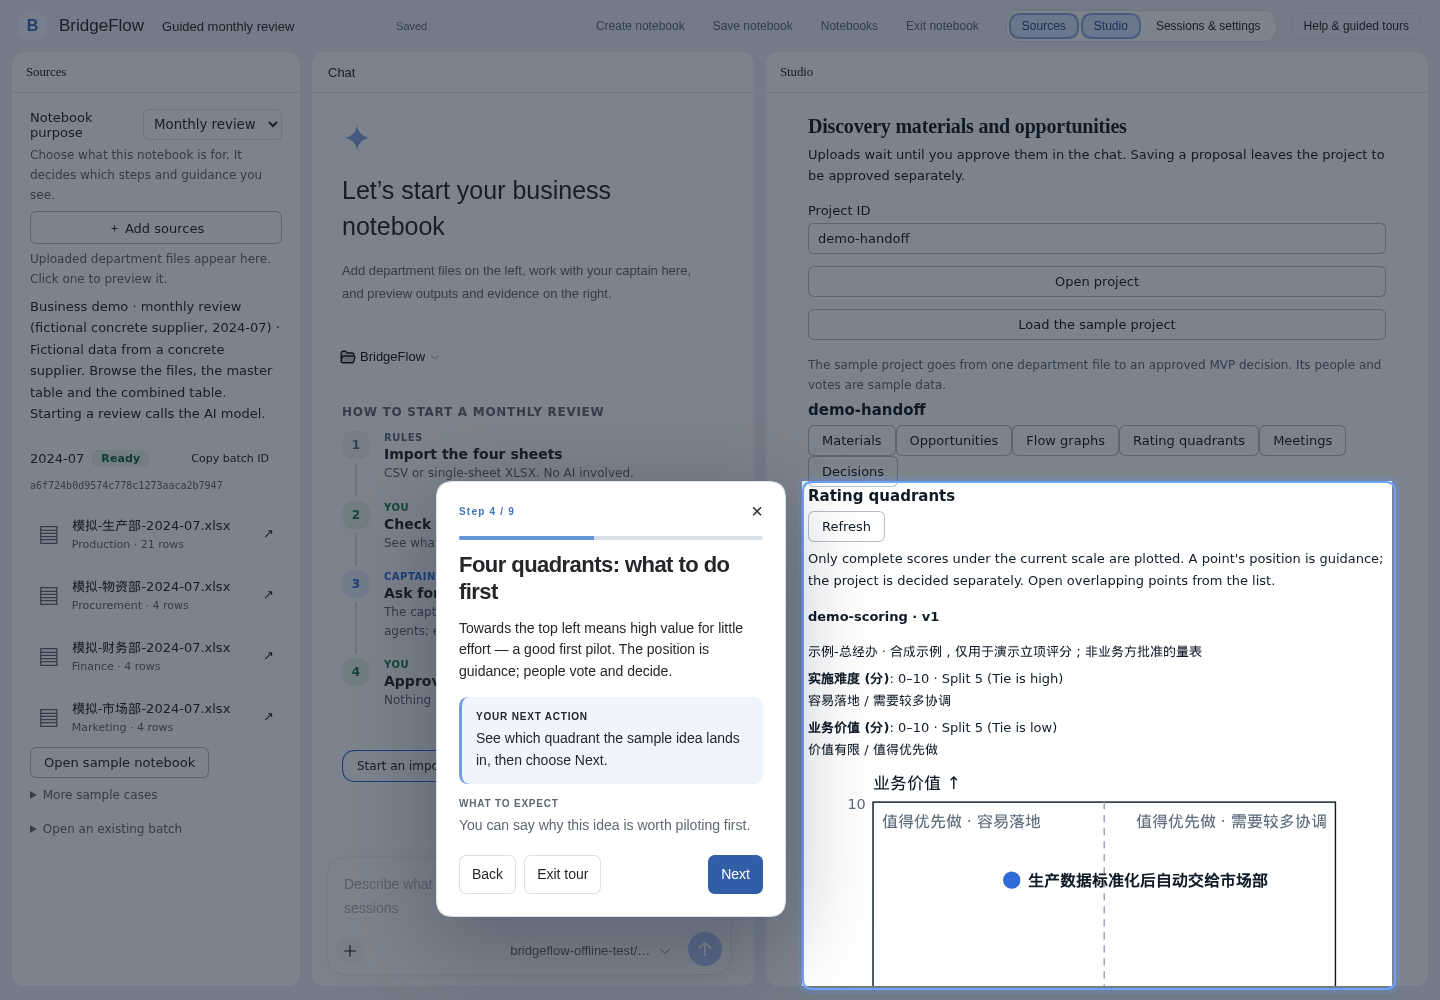
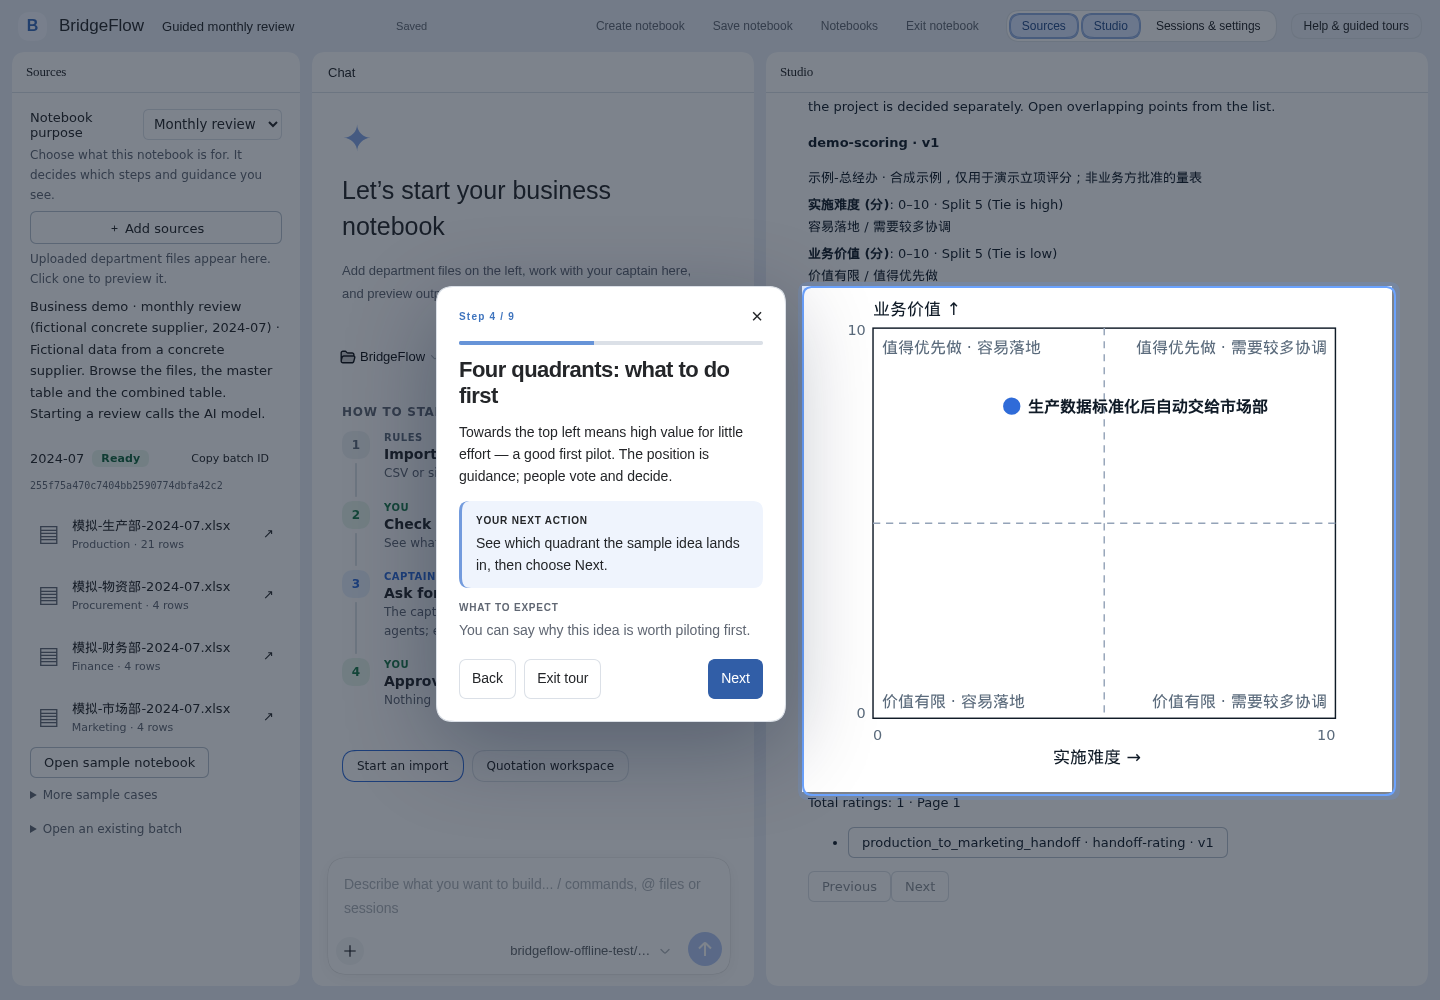
Fix scoring chart names and guided tour framing

Changed region(s): [[0.2812, 0.093, 0.9688, 0.992], [0.8125, 0.682, 0.9375, 0.744], [0.0938, 0.465, 0.125, 0.496]]

diff --git a/plugins/src/client/discovery-scoring.tsx b/plugins/src/client/discovery-scoring.tsx
@@ -6,7 +6,7 @@ type Axis = { title: string; unit: string; minimum: string; maximum: string; spl
 type Policy = { id: string; version: number; fingerprint: string; declared_by: string; declaration_ref: string; effort: Axis; value: Axis }
 type Rating = { score?: string | null; rationale: string; references: Ref[] }
 type Coordinates = { effort: { score: string; normalized: string; side: string }; value: { score: string; normalized: string; side: string } }
-export type Score = { id: string; project_id: string; opportunity_id: string; opportunity_version: number; seq: number; version: number; policy_fingerprint: string; effort: Rating | null; value: Rating | null; actor?: string; coordinates: Coordinates | null; not_plotted_reasons: string[] }
+export type Score = { id: string; project_id: string; opportunity_id: string; opportunity_title?: string; opportunity_version: number; seq: number; version: number; policy_fingerprint: string; effort: Rating | null; value: Rating | null; actor?: string; coordinates: Coordinates | null; not_plotted_reasons: string[] }
 const reasons: Record<string, [string, string]> = {
   candidate_or_evidence_revised: ['候选或依据已修订', 'Candidate or evidence revised'],
   policy_revised: ['量表已改变', 'Policy changed'],
@@ -64,15 +64,7 @@ export function ScoreBoard({ project, onEdit }: { project: string; onEdit: (scor
   const { language, t } = useUI(), zh = language === 'zh'
   const [page, setPage] = useState<{ items: Score[]; total: number; has_more: boolean } | null>(null), [policy, setPolicy] = useState<Policy | null>(null)
   const [offset, setOffset] = useState(0), [revision, setRevision] = useState(0), [error, setError] = useState(''), [selected, setSelected] = useState<Score | null>(null)
-  // Points are labelled with the candidate's title; the id stays in the list and the evidence.
-  const [titles, setTitles] = useState<Record<string, string>>({})
-  useEffect(() => {
-    const abort = new AbortController()
-    void api<{ items: { id: string; title?: string }[] }>(`/discovery/${project}/opportunity?offset=0&limit=50`, { signal: abort.signal })
-      .then(list => setTitles(Object.fromEntries(list.items.map(item => [item.id, item.title || item.id])))).catch(() => setTitles({}))
-    return () => abort.abort()
-  }, [project, revision])
-  const titled = (id: string) => { const name = titles[id] || id; return name.length > 18 ? `${name.slice(0, 17)}…` : name }
+  const titled = (score: Score) => { const name = score.opportunity_title || score.opportunity_id; return name.length > 18 ? `${name.slice(0, 17)}…` : name }
   useEffect(() => {
     const abort = new AbortController(); setPage(null); setPolicy(null); setSelected(null); setError('')
     void Promise.all([api<Policy>(`/discovery/${project}/scoring-policy`, { signal: abort.signal }), api<{ items: Score[]; total: number; has_more: boolean }>(`/discovery/${project}/score?offset=${offset}&limit=50`, { signal: abort.signal })]).then(([p, list]) => { setPolicy(p); setPage(list) }).catch(e => { if (!abort.signal.aborted) setError(describeError(e, t)) })
@@ -83,10 +75,10 @@ export function ScoreBoard({ project, onEdit }: { project: string; onEdit: (scor
     catch (e) { setError(describeError(e, t)) }
   }
   const split = (axis: Axis) => (Number(axis.split) - Number(axis.minimum)) / (Number(axis.maximum) - Number(axis.minimum))
-  return <section data-tour-id="quadrant-chart" aria-label={zh ? '评分四象限' : 'Rating quadrants'}><h3>{zh ? '评分四象限' : 'Rating quadrants'}</h3><button onClick={() => setRevision(n => n + 1)}>{t('refresh')}</button>
+  return <section aria-label={zh ? '评分四象限' : 'Rating quadrants'}><h3>{zh ? '评分四象限' : 'Rating quadrants'}</h3><button onClick={() => setRevision(n => n + 1)}>{t('refresh')}</button>
     <p>{zh ? '只画出当前量表下依据齐全的评分；点的位置只是参考，立项要另行决定。重叠的点可以从列表里分别打开。' : 'Only complete scores under the current scale are plotted. A point\'s position is guidance; the project is decided separately. Open overlapping points from the list.'}</p>
     {error && <p role="alert">{error}</p>}{policy && page && <><PolicyView policy={policy} />
-      <svg role="img" aria-label={zh ? '投入与价值四象限' : 'Effort and value quadrants'} viewBox="0 0 400 340" style={{ width: '100%' }}>
+      <div data-tour-id="quadrant-chart"><svg role="img" aria-label={zh ? '投入与价值四象限' : 'Effort and value quadrants'} viewBox="0 0 400 340" style={{ width: '100%' }}>
         <rect x="45" y="25" width="320" height="270" fill="none" stroke="currentColor" />
         <path d={`M ${45 + split(policy.effort) * 320} 25 V 295 M 45 ${295 - split(policy.value) * 270} H 365`} stroke="#94a3b8" strokeDasharray="5 4" />
         <text x="200" y="326" textAnchor="middle" fontSize="12" fill="currentColor">{policy.effort.title} →</text><text x="45" y="16" fontSize="12" fill="currentColor">{policy.value.title} ↑</text>
@@ -97,8 +89,12 @@ export function ScoreBoard({ project, onEdit }: { project: string; onEdit: (scor
         <text x="45" y="310" fontSize="10" className="bf-quadrant-label">{policy.effort.minimum}</text><text x="365" y="310" textAnchor="end" fontSize="10" className="bf-quadrant-label">{policy.effort.maximum}</text>
         <text x="40" y="295" textAnchor="end" fontSize="10" className="bf-quadrant-label">{policy.value.minimum}</text><text x="40" y="30" textAnchor="end" fontSize="10" className="bf-quadrant-label">{policy.value.maximum}</text>
         {page.items.filter(s => s.coordinates && s.policy_fingerprint === policy.fingerprint).map(s => <circle key={s.id} role="button" tabIndex={0} aria-label={`${s.opportunity_id} · ${s.id}`} cx={45 + Number(s.coordinates!.effort.normalized) * 320} cy={295 - Number(s.coordinates!.value.normalized) * 270} r="7" className="bf-quadrant-dot" onClick={() => void select(s)} onKeyDown={e => { if (e.key === 'Enter' || e.key === ' ') { e.preventDefault(); void select(s) } }}><title>{s.id}: {s.coordinates!.effort.score}, {s.coordinates!.value.score}</title></circle>)}
-        {page.items.filter(s => s.coordinates && s.policy_fingerprint === policy.fingerprint).map(s => <text key={`l${s.id}`} x={45 + Number(s.coordinates!.effort.normalized) * 320 + 11} y={295 - Number(s.coordinates!.value.normalized) * 270 + 4} fontSize="11" className="bf-quadrant-name">{titled(s.opportunity_id)}</text>)}
-      </svg>
+        {page.items.filter(s => s.coordinates && s.policy_fingerprint === policy.fingerprint).map(s => {
+          const x = 45 + Number(s.coordinates!.effort.normalized) * 320
+          const right = Number(s.coordinates!.effort.normalized) > .5
+          return <text key={`l${s.id}`} x={x + (right ? -11 : 11)} y={295 - Number(s.coordinates!.value.normalized) * 270 + 4} textAnchor={right ? 'end' : 'start'} fontSize="11" className="bf-quadrant-name">{titled(s)}</text>
+        })}
+      </svg></div>
       <p>{zh ? '评分总数' : 'Total ratings'}: {page.total} · {zh ? '当前页' : 'Page'} {Math.floor(offset / 50) + 1}</p>
       <ul>{page.items.map(s => <li key={s.id}><button onClick={() => void select(s)}>{s.opportunity_id} · {s.id} · v{s.version}</button>{(!s.coordinates || s.policy_fingerprint !== policy.fingerprint) && <span> {zh ? '未落点：' : 'Not plotted: '}{s.policy_fingerprint !== policy.fingerprint ? (zh ? '量表已改变' : 'Policy changed') : s.not_plotted_reasons.map(reason => reasons[reason]?.[zh ? 0 : 1] ?? reason).join('; ')}</span>}</li>)}</ul>
       <button disabled={!offset} onClick={() => setOffset(n => Math.max(0, n - 50))}>{zh ? '上一页' : 'Previous'}</button><button disabled={!page.has_more} onClick={() => setOffset(n => n + 50)}>{zh ? '下一页' : 'Next'}</button>

diff --git a/backend/src/bridgeflow/api/discovery.py b/backend/src/bridgeflow/api/discovery.py
@@ -130,6 +130,10 @@ def inventory(project: str, kind: Kind, user: BrowserUser,
         if offset <= total < offset + limit:
             if kind == "score":
                 record = DiscoveryScores(domain, scoring_policy(project, user)).read(project, identifier)
+                # The chart needs the linked candidate's name on every score page.
+                # Looking up only the first candidate page leaves later ratings as opaque IDs.
+                record["opportunity_title"] = domain.read(
+                    "opportunity", project, record["opportunity_id"])["title"]
             elif kind == "decision":
                 record = DiscoveryDecisions(domain, decision_policy(project, user)).read(project, identifier)
             elif kind == "meeting":
@@ -137,7 +141,7 @@ def inventory(project: str, kind: Kind, user: BrowserUser,
             # Claims belong in an explicit detail view, not an unbounded list.
             items.append({key: record[key] for key in (
                 "id", "project_id", "version", "created_at", "department", "departments",
-                "title", "filename", "parser_status", "detected_kind", "status", "opportunity_id",
+                "title", "filename", "parser_status", "detected_kind", "status", "opportunity_id", "opportunity_title",
                 "coordinates", "not_plotted_reasons", "policy_fingerprint", "phase", "stale_candidates", "stale_sources", "proposal_version",
                 "recorded_status", "stale_reasons", "tally", "pending_conditions") if key in record})
         total += 1

diff --git a/backend/tests/test_discovery_scoring_api.py b/backend/tests/test_discovery_scoring_api.py
@@ -45,6 +45,22 @@ def test_scoring_policy_and_reads_require_a_login(client, monkeypatch, tmp_path)
     assert client.get("/discovery/project/score/rating", headers=auth(make_token(sub="ou_bob"))).status_code == 200
     listed = client.get("/discovery/project/score", headers=auth(make_token())).json()
     assert listed["items"][0]["coordinates"] == saved.json()["coordinates"]
+    assert listed["items"][0]["opportunity_title"] == opportunity().title
+
+
+def test_score_list_names_candidate_beyond_first_opportunity_page(client, monkeypatch, tmp_path):
+    prepare(monkeypatch, tmp_path)
+    domain = service()
+    for index in range(49):
+        domain.propose(opportunity(id=f"other-{index:02d}"), "employee")
+    domain.propose(opportunity(id="later", title="A later proposal"), "employee")
+    payload = json.dumps({"score": score(id="later-rating", opportunity_id="later").model_dump(mode="json")}).encode()
+    token = permit(client, payload, "discovery_score_save", "ou_alice").json()["permit"]
+    assert write(client, payload, token).status_code == 200
+    headers = auth(make_token())
+    assert client.get("/discovery/project/opportunity?offset=0&limit=50", headers=headers).json()["has_more"]
+    listed = client.get("/discovery/project/score?offset=0&limit=50", headers=headers).json()
+    assert listed["items"][0]["opportunity_title"] == "A later proposal"
 
 
 def test_policy_changes_between_authorization_and_execution_refuse_write(client, monkeypatch, tmp_path):

diff --git a/docs/00-status.md b/docs/00-status.md
@@ -13,7 +13,7 @@
 
 ## 当前评审 rubric 自评（2026-09-24）
 
-按主办方七项、每项 5 分估算，**31.5 / 35**。这是项目方自评，不是评委分数或企业验收；以已合入的代码及下列留存证据为准。工作区内尚未提交的身份、读取范围和审批界面改动不计入本次评分。
+按主办方七项、每项 5 分估算，**31.5 / 35**。这是已合入能力的技术 rubric 自评，不是评委分数、交付准备度或企业验收。27 日能否交付要看下面单列的演示闸门；功能在仓库中存在，不等于现场可用。
 
 | # | 项 | 自评（/5） | 已验证的依据 | 尚未证明的部分 |
 | --- | --- | ---: | --- | --- |
@@ -26,6 +26,17 @@
 | 7 | Platform & Tooling Usage | 4.5 | 官方 Web、原生工具/审批/会话与子代理在真实模型旅程中使用；[架构边界](13-golden-standard.md#六-rubric-符合性)明确 | 框架升级契约与企业部署验收未完成 |
 
 这次比 [09-20 自评](../HANDOFF.md#历史评审-rubric-自评2026-09-20)更有把握的部分是第 2、3、6 项：多步真实模型链路、全量工具选择评测及真实运行轨迹已经留证。第 3 项不因 18/18 直接给满分，第 6 项也不把脚本化回归当成模型质量证明。
+
+## 27 日交付前的演示闸门（2026-09-24，`main@12b790c` 加本地打磨）
+
+**当前仍是待验收，不把上面的技术自评当成交付分数。** 新功能和新需求先暂停，只处理演示主路径的故障、错误表述及其回归。
+
+| 闸门 | 当前证据与结论 |
+| --- | --- |
+| 本地离线主路径 | 在私有 dsh 上复跑员工身份的材料→候选→图→评分→会议→决策浏览器旅程、工作流、月结、四部门研判、报价、三套样例、冷重启、笔记本恢复、部门故障和 README 截图旅程，均通过。员工旅程最初被过期的浏览器测试夹具挡住：它仍写旧的 `users` ACL，且按旧界面查找折叠内容和流程节点；修复测试夹具后通过。评分图第 51 个候选标题的 API 回归与引导四象限完整可见性检查已补上并通过。复现：`BRIDGEFLOW_TEST_DISCOVERY=1 BRIDGEFLOW_TEST_EMPLOYEE=1 BRIDGEFLOW_LIVE=0 pnpm --dir plugins smoke:web`，以及 [交接文档中的其余命令](../HANDOFF.md)。测试模型是脚本化的，不能代替现场真实模型验收。 |
+| 负责人本机演示 | [交接记录](../HANDOFF.md)指出 3082 实例仍在运行旧代码；重启前还须核对模型配置。尚无重启后的手工走查记录。 |
+| 公网访客入口 | 独立访客实例代码已合入；[服务器装配步骤](22-lightsail-deploy.md)中的 DNS、环境变量、服务与重置定时器仍待执行和验收。 |
+| 真实业务输入 | 客户导出、业务口径及企业签核仍未到；[外部输入清单](27-external-inputs.md)未收齐。20 万行样例在现有上传/解压上限下导不进，实测见本文下方的 #228 记录。交付演示应使用已验证的合成样例并如实标明边界。 |
 
 ## 引导补流程线路、样例覆盖与私有 dsh（2026-09-24，分支 `feat/tour-workflow`）
 

diff --git a/HANDOFF.md b/HANDOFF.md
@@ -2,6 +2,14 @@
 
 更新：2026-09-24（引导与 #143 见首节，其后是试用反馈修复、其后是访客模式、其后是工具选择与示例历史月份、其后是工作流补全、issue 收尾；其下依次为 09-23 收尾一轮、界面说清楚一轮、夜间一轮）；此前 2026-09-21。**当前阶段是「全 Web 化 → Lark 接入」，顺序不可颠倒，见下面同名小节。** 该小节之外的内容属于此前已暂停的 14x 需求交付阶段，仍然有效但不是当前工作面；不要因那些旧实施计划或自动续跑继续增加功能。任何「已完成」都不代表企业验收。
 
+**27 日前收口**：以 [当前演示闸门](docs/00-status.md)为准。暂停新增功能和未经业务原件支持的需求；只修现有演示链路的阻断、错误表述与回归。#261 继续放在交付后；#228 先保留已测上限与样例边界，#247 不因口头要求直接合入。
+
+## 2026-09-24 交付前逐项打磨：评分图与引导
+
+- **功能缺陷**：评分图原先只读取候选列表的前 50 条来找名称。第 51 条及之后的候选即使有评分，图上也会退回内部标识。评分列表现在直接返回对应候选标题，换页也保留名称；新增第 51 条候选的 API 回归。
+- **UX**：引导的四象限步骤原先高亮整块评分区，图的下半部在 1440×1000 视口里被截断。现在引导只聚焦图本身，自动滚动后四个象限和示例点都完整可见；右半边的点名也改向左展开，避免被图边裁掉。浏览器旅程增加完整可见性与标题断言，[新截图](docs/evidence/onboarding/workflow-quadrant.png)可直接检查。
+- **验证**：新引导线路、评分 API、TypeScript 类型检查、Python lint 已通过。私有 dsh 下先前待复跑的离线旅程、部门故障变体及 README 截图也已复跑通过；员工立项浏览器旅程的旧 ACL／折叠详情／流程节点测试夹具已更新并通过。真实模型与负责人本机 3082 实例仍未在本轮重验，见[演示闸门](docs/00-status.md)。
+
 ## 2026-09-24 引导补「从立项到交接」、#143 补齐演示、样例覆盖、私有 dsh 安装（分支 `feat/tour-workflow`）
 
 - **新手引导**：
